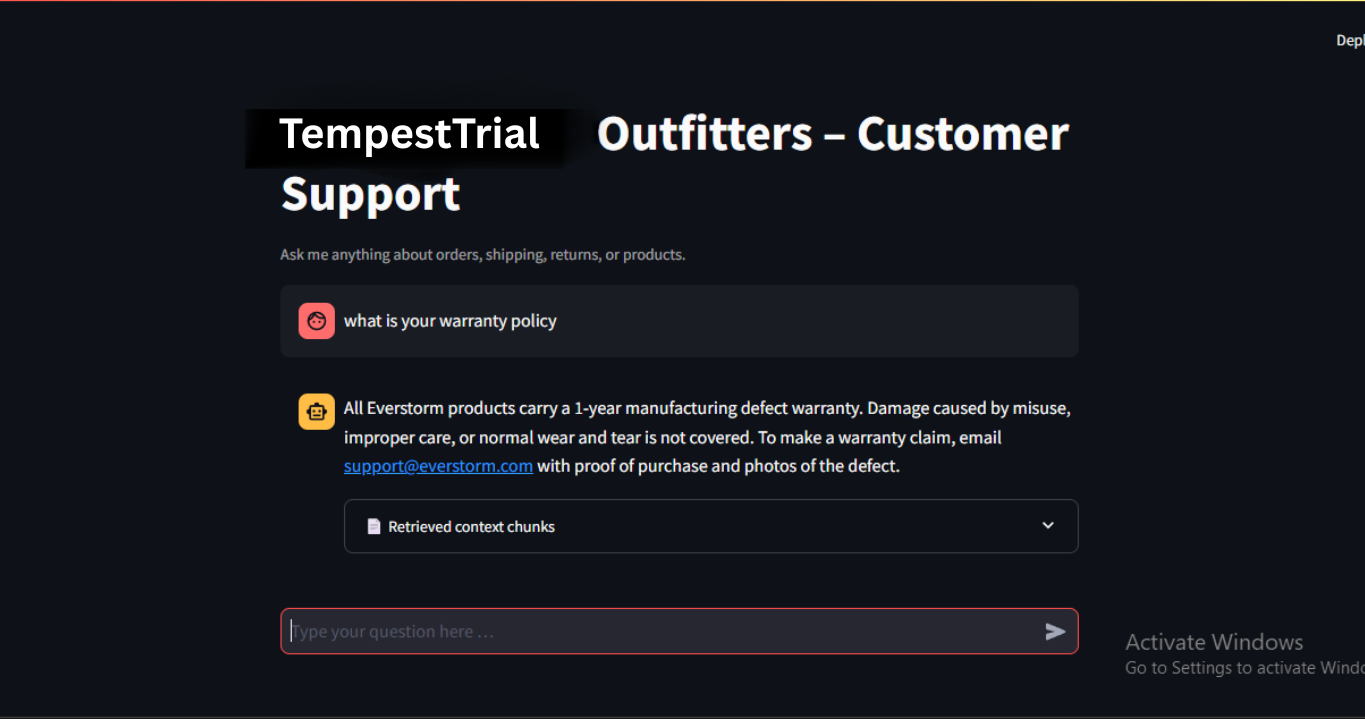
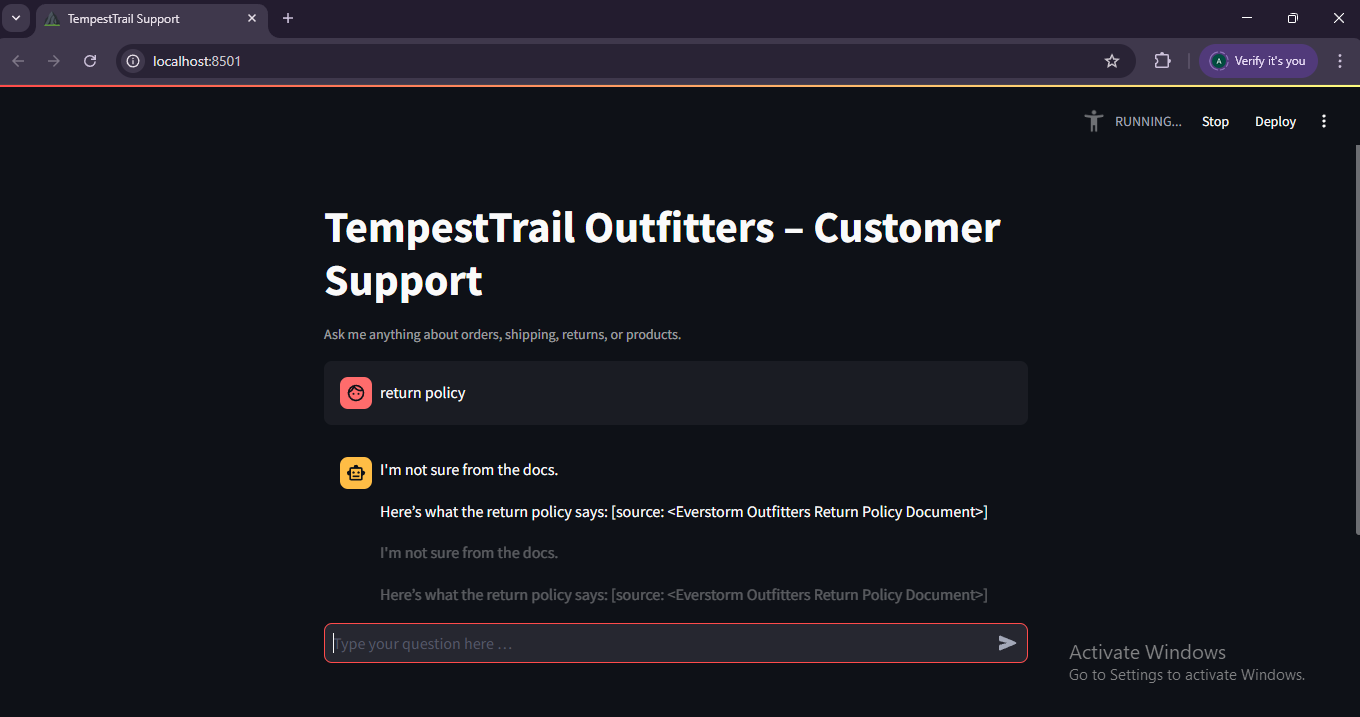
updated code

diff --git a/app.py b/app.py
@@ -1,27 +1,29 @@
 """
-Streamlit Chat UI for the TempestTrail Outfitters RAG chatbot.
+Streamlit Chat UI for the Everstorm Outfitters RAG chatbot.
 
+Run from the project root:
+    streamlit run app.py
 """
 
 import streamlit as st
-from langchain.embeddings import SentenceTransformerEmbeddings
-from langchain.vectorstores import FAISS
-from langchain.llms import Ollama
+from langchain_community.embeddings import SentenceTransformerEmbeddings
+from langchain_community.vectorstores import FAISS
+from langchain_community.llms import Ollama
 from langchain.chains import ConversationalRetrievalChain
 from langchain.prompts import PromptTemplate
 
 # ── Page config ──────────────────────────────────────────────
 st.set_page_config(
-    page_title="TempestTrail Support",
+    page_title="TempestTrial Support",
     page_icon="⛰",
     layout="centered",
 )
-st.title("TempestTrail Outfitters – Customer Support")
+st.title("⛰ TempestTrial Outfitters – Customer Support")
 st.caption("Ask me anything about orders, shipping, returns, or products.")
 
 # ── Load resources (cached so they only load once) ───────────
 SYSTEM_TEMPLATE = """
-You are a **Customer Support Chatbot** for TempestTrail Outfitters.
+You are a **Customer Support Chatbot** for Everstorm Outfitters.
 Use ONLY the information in CONTEXT to answer.
 If the answer is not there, say "I'm not sure from the docs."
 
